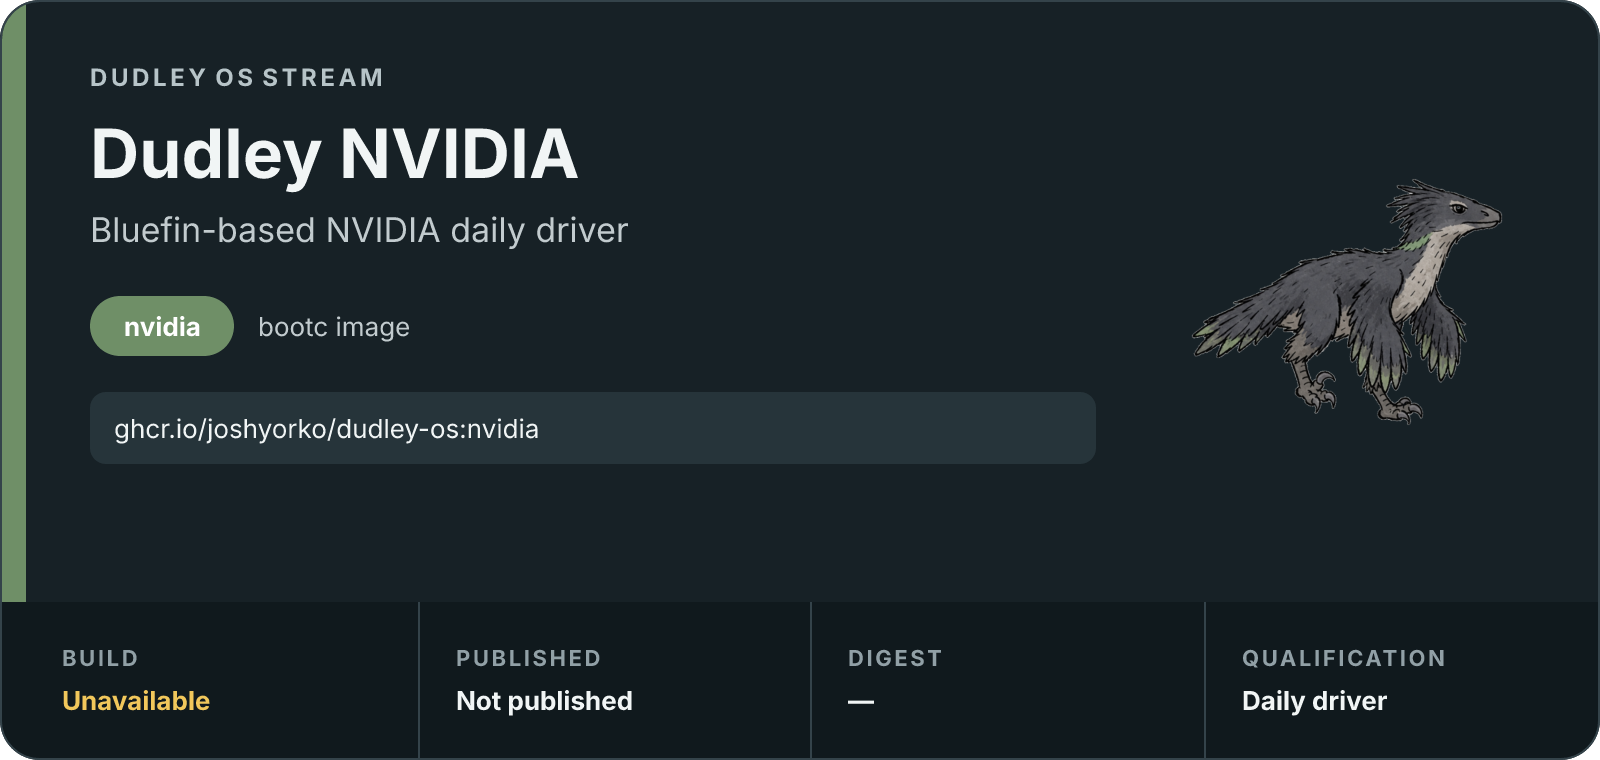
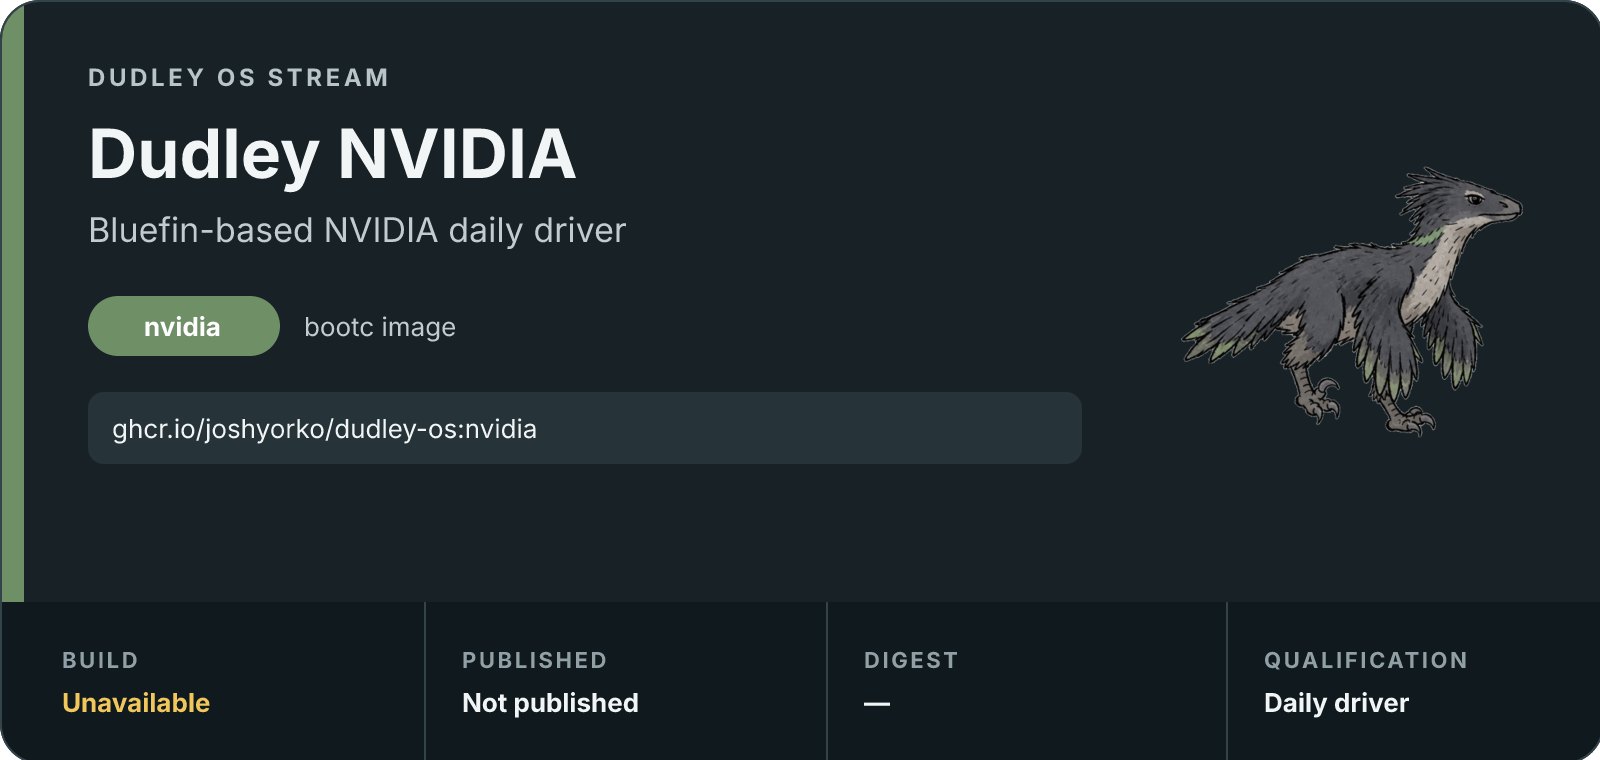
fix: restore Docker imports and refresh release cards (#456)
* fix: restore Docker imports and refresh release cards

Support Docker images with embedded containerd while preserving older standalone imports and all other required binaries. Add regression coverage for both layouts and missing required binaries.

Regenerate release cards for the existing Satori renderer after the dependency update.

Assisted-by: GPT-6 via Codex

* docs: document Docker container runtime compatibility

Assisted-by: GPT-6 via Codex

diff --git a/README.md b/README.md
@@ -85,6 +85,8 @@ profile. It includes both
 Podman and the real Docker Engine with Compose and Buildx, uses Ghostty instead
 of Ptyxis, and bakes native Google Chrome into the image from Google's
 signature-verified RPM payload without adding RPM or DNF to the final image.
+Docker's container runtime is supported both when embedded in the engine and
+when shipped as a separate binary.
 Dudley restores disabled firewalld iptables helper paths so Docker can create
 container networks without disabling the firewall.
 It also stages the `crun-krun`, `fuse2fs`, and `gocryptfs` host runtime used by
@@ -101,7 +103,7 @@ terminal contracts are checked during every Dakota and Dakota NVIDIA build.
 Run `ujust dudley` to install the complete curated Dudley profile.
 The Fedora/RPM/DNF and libvirt host payload remain excluded.
 
-*Last updated: 2026-09-21*
+*Last updated: 2026-10-23*
 
 ## Architecture
 
